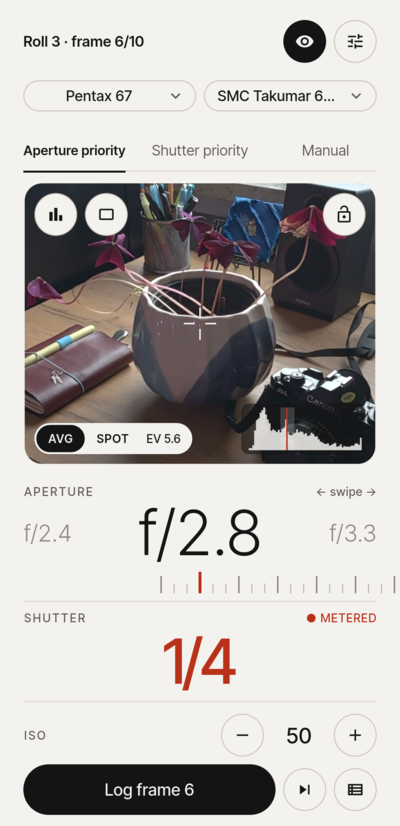
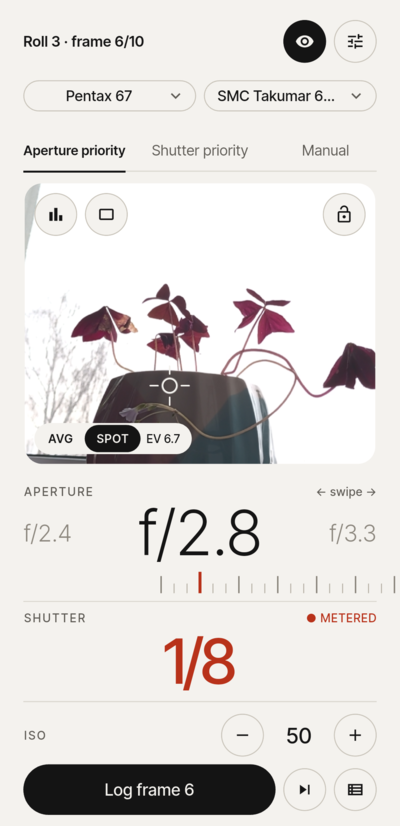
docs: calmer hero screenshot, the roll in dark mode
Claude-Session: https://claude.ai/code/session_01NvGL4s4SXe4Fa4EeBU86mw

Changed region(s): [[0.06, 0.2119, 0.96, 0.5751], [0.45, 0.7567, 0.6, 0.8475]]

diff --git a/README.md b/README.md
@@ -8,8 +8,8 @@ roll. Free software (GPLv3): no account, no ads, no tracking, no paywall, and
 no Google Play Services.
 
 <p align="center">
-  <img src="docs/screenshots/1-meter_light.png" width="240" alt="The meter in light mode: Pentax 67 with Roll 3 loaded, viewfinder with histogram, AVG | SPOT and EV, f/2.8 and a metered 1/4">
-  <img src="docs/screenshots/2-meter_dark.png" width="240" alt="The same meter in dark mode">
+  <img src="docs/screenshots/1-meter_light.png" width="240" alt="The meter in light mode: Pentax 67 with Roll 3 loaded, a spot on a backlit plant, f/2.8 and a metered 1/8">
+  <img src="docs/screenshots/2-meter_dark.png" width="240" alt="The meter in dark mode, with the histogram and the film's latitude">
   <img src="docs/screenshots/3-roll.png" width="240" alt="A roll of Velvia 50 on the Pentax 67: five frames with thumbnails, settings, lens and time">
 </p>
 <p align="center">
